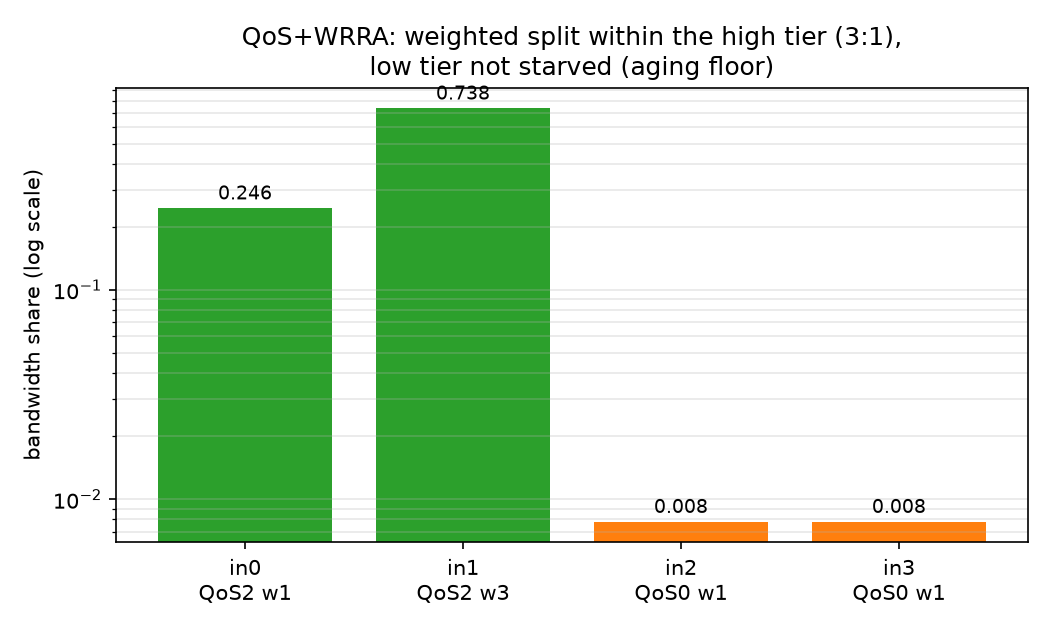
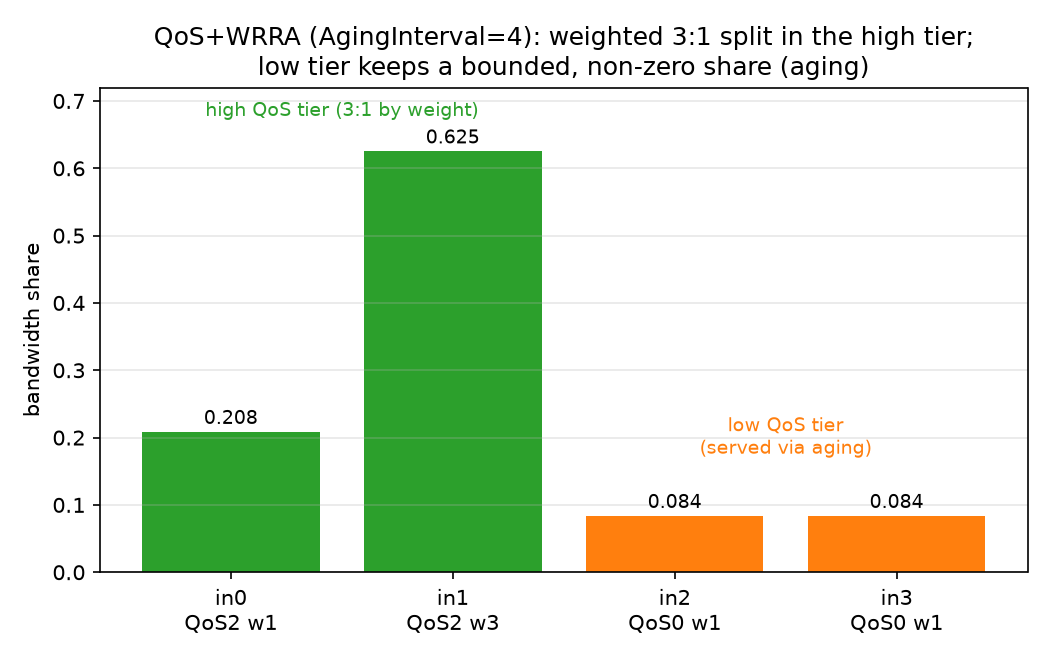
fig4: show two-tier shares at AgingInterval=4 so the low tier is visible

Changed region(s): [[0.0, 0.0302, 0.9752, 0.9651], [0.6705, 0.6333, 0.8229, 0.6937]]

diff --git a/doc/plots/plot_arbiters.py b/doc/plots/plot_arbiters.py
@@ -143,18 +143,26 @@ save(fig, "fig3_weight_proportionality.png")
 # =====================================================================================
 # Fig 4 - QoS+WRRA two-tier shares  (cc_qos_wrr_arbiter_tb at nominal interval, embedded)
 # =====================================================================================
+# Shown at AgingInterval=4 so the low tier is clearly visible (at the nominal 64 it is ~0.8%);
+# the full share-vs-interval tradeoff is fig6. Reconstructed from the aging sweep: high tier =
+# 0.833 split 3:1, low tier = 0.167 split evenly.
 labels = ["in0\nQoS2 w1", "in1\nQoS2 w3", "in2\nQoS0 w1", "in3\nQoS0 w1"]
-share  = [0.246, 0.738, 0.00782, 0.00782]
+share  = [0.2083, 0.6250, 0.0835, 0.0835]
 colors = ["tab:green", "tab:green", "tab:orange", "tab:orange"]
-fig, ax = plt.subplots(figsize=(7, 4.2))
+fig, ax = plt.subplots(figsize=(7, 4.4))
 bars = ax.bar(labels, share, color=colors)
-ax.set_yscale("log")
-ax.set_ylabel("bandwidth share (log scale)")
-ax.set_title("QoS+WRRA: weighted split within the high tier (3:1),\n"
-             "low tier not starved (aging floor)")
+ax.set_ylim(0, 0.72)
+ax.set_ylabel("bandwidth share")
+ax.set_title("QoS+WRRA (AgingInterval=4): weighted 3:1 split in the high tier;\n"
+             "low tier keeps a bounded, non-zero share (aging)")
 for b, s in zip(bars, share):
-    ax.text(b.get_x()+b.get_width()/2, s*1.1, f"{s:.3f}", ha="center", fontsize=9)
-ax.grid(True, axis="y", which="both", alpha=0.3)
+    ax.text(b.get_x()+b.get_width()/2, s+0.012, f"{s:.3f}", ha="center", fontsize=9)
+ax.grid(True, axis="y", alpha=0.3)
+# tier labels (placed in clear space)
+ax.text(0.5, 0.685, "high QoS tier (3:1 by weight)", ha="center", va="center",
+        color="tab:green", fontsize=9)
+ax.text(2.5, 0.20, "low QoS tier\n(served via aging)", ha="center", va="center",
+        color="tab:orange", fontsize=9)
 save(fig, "fig4_qos_two_tier_shares.png")
 
 # =====================================================================================
